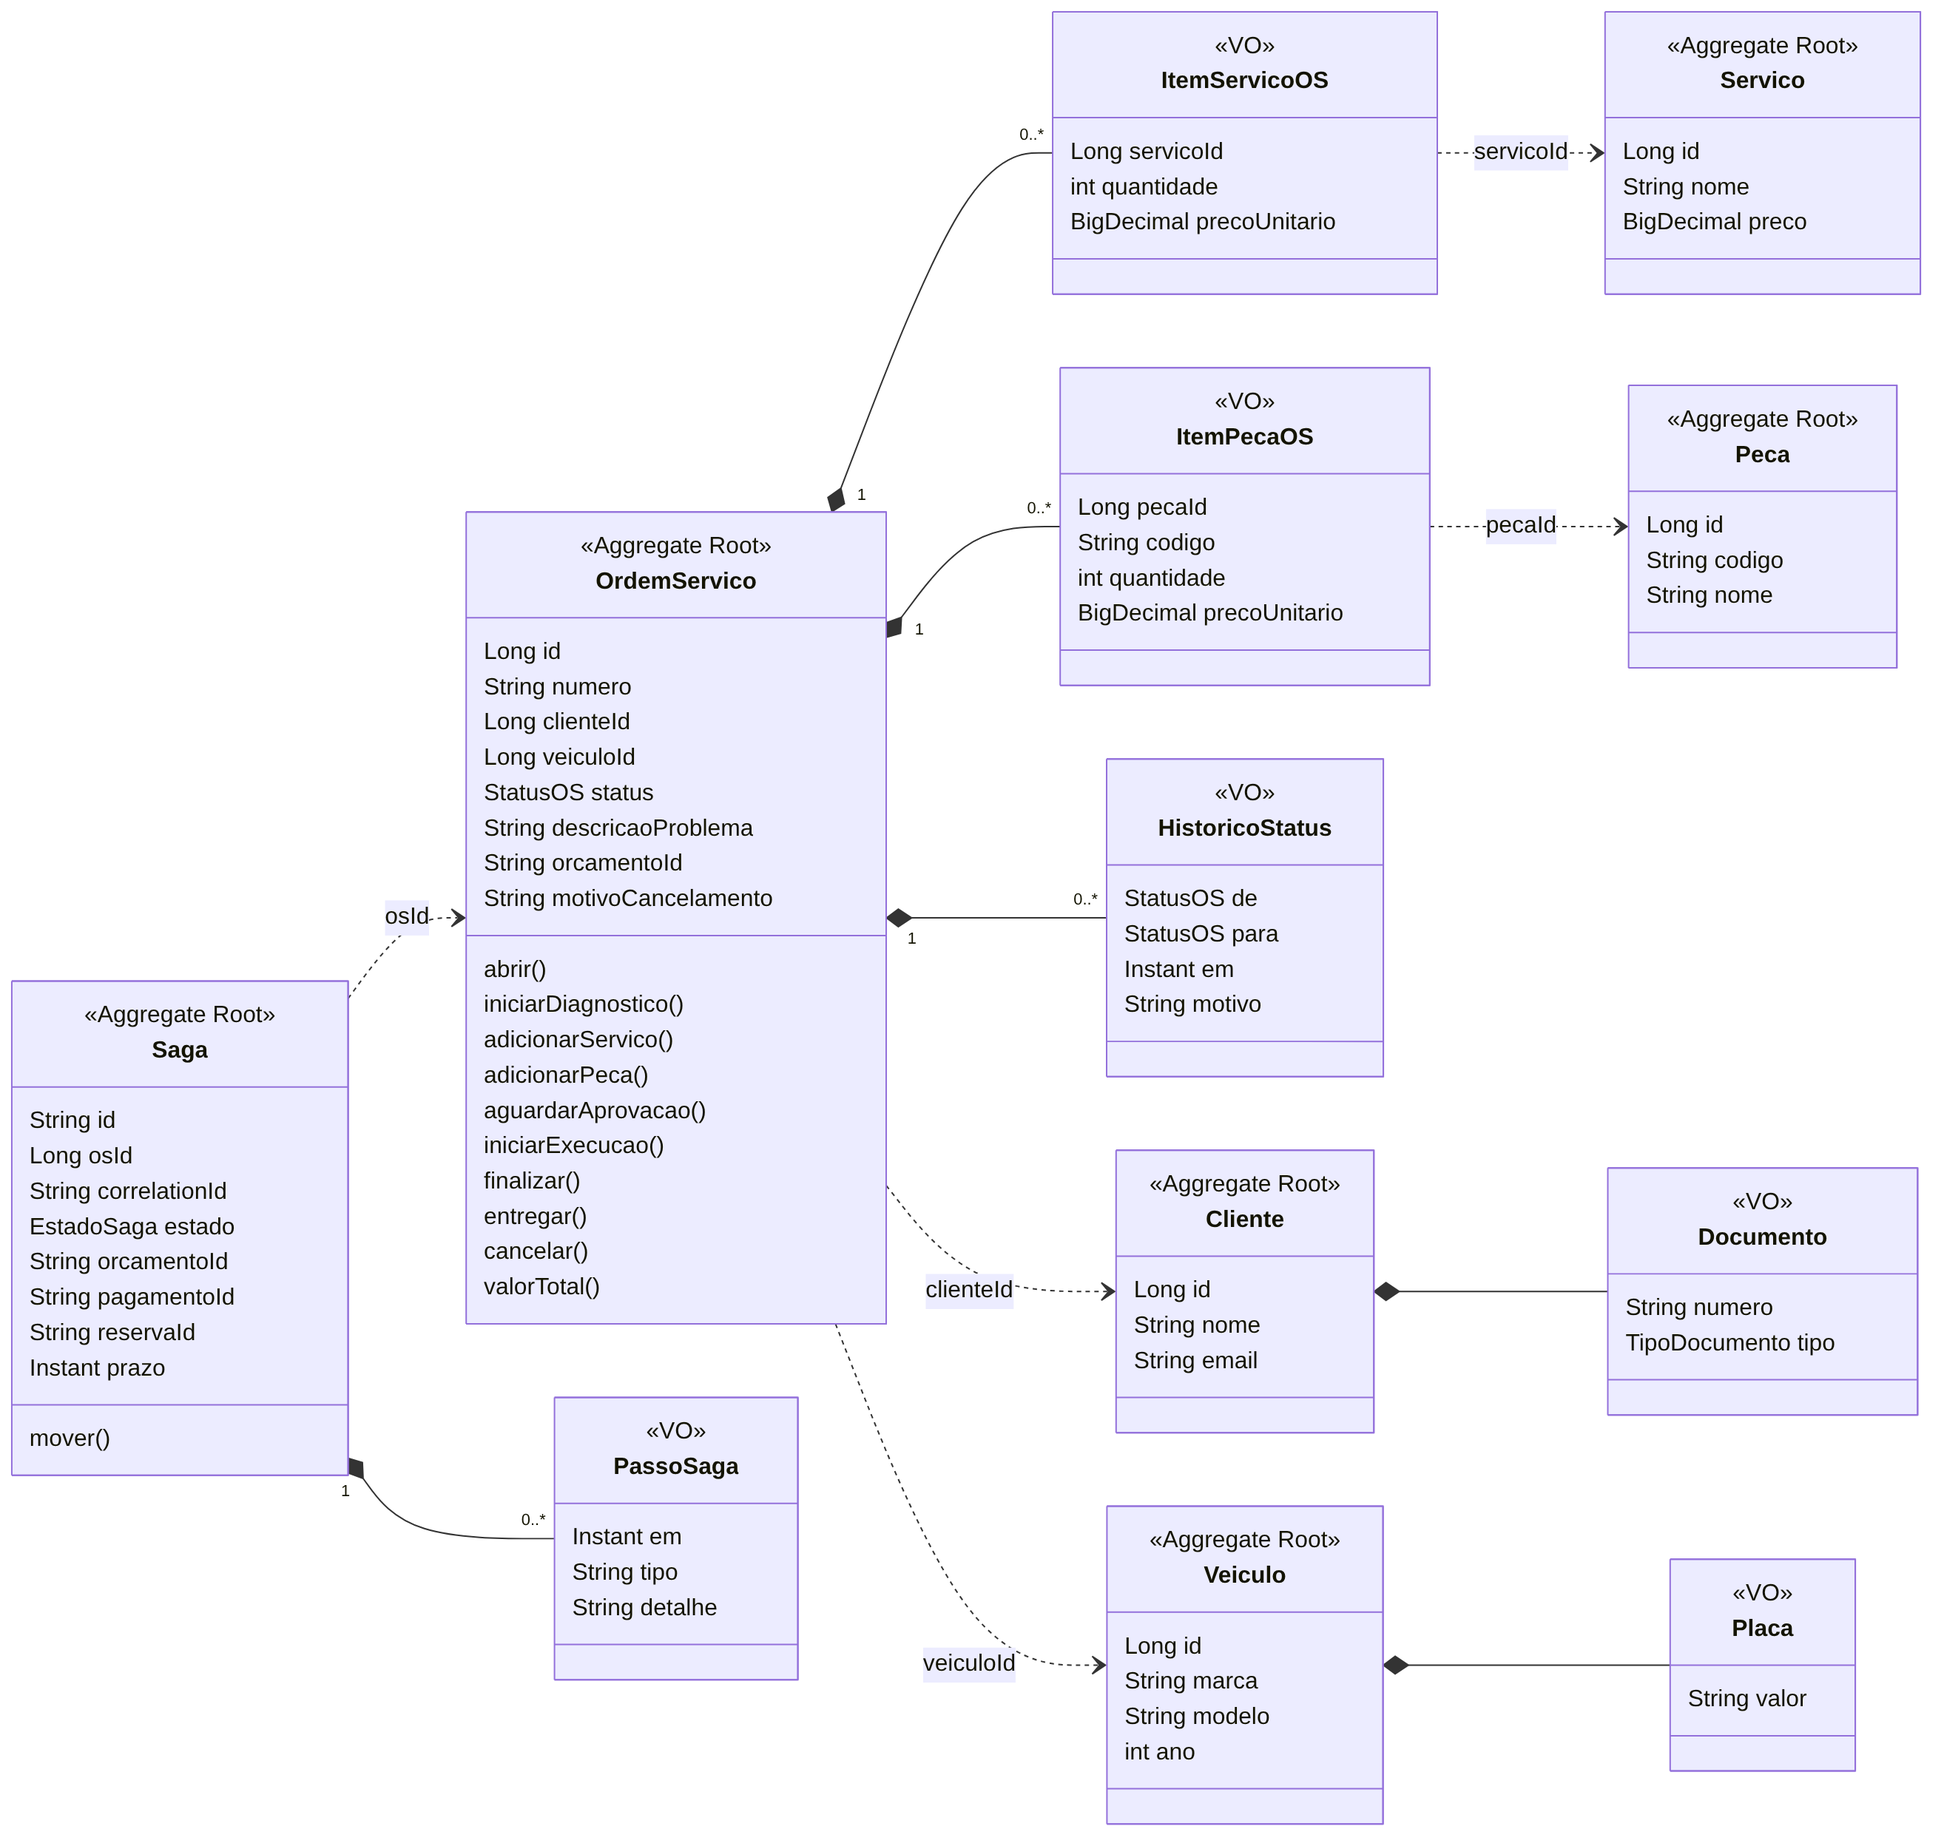
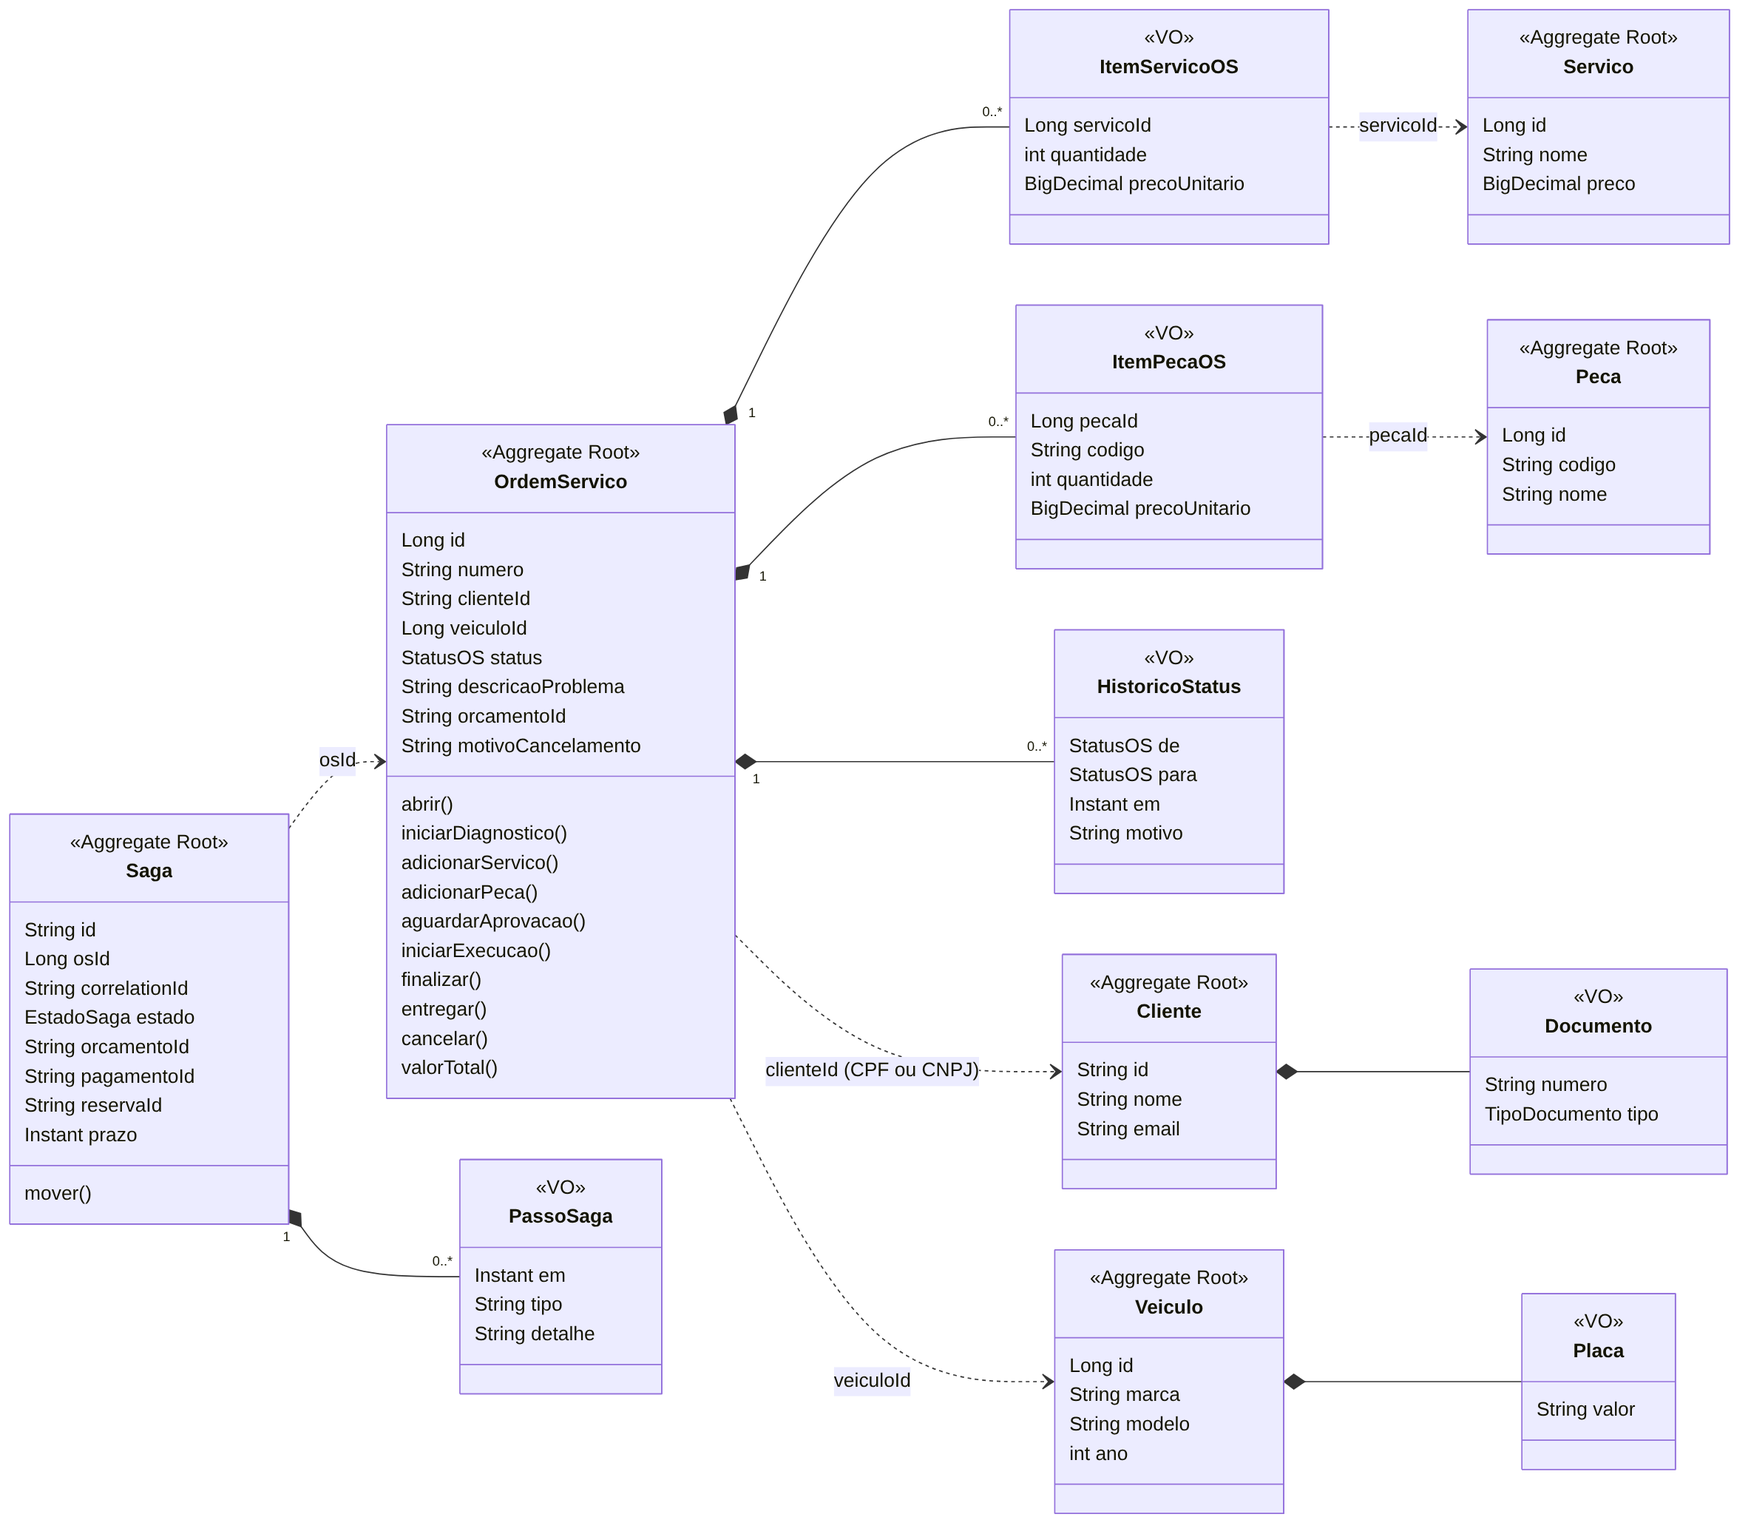
feat: CPF/CNPJ passa a ser o identificador do cliente
Documento como chave primaria (OS), clienteId texto nas mensagens, no Billing e no token da Lambda.
Inclui migrations, testes e documentacao atualizados.

Claude-Session: https://claude.ai/code/session_01RBiNqwT66apjE6pVwV7nbT

diff --git a/src/test/java/br/com/oficina/billing/application/BillingServiceTest.java b/src/test/java/br/com/oficina/billing/application/BillingServiceTest.java
@@ -67,7 +67,7 @@ class BillingServiceTest {
     }
 
     private void criar() {
-        service.processar(novaMensagem(), new CriarOrcamento(7L, "ana@x.com", itens(), TOTAL));
+        service.processar(novaMensagem(), new CriarOrcamento("52998224725", "ana@x.com", itens(), TOTAL));
     }
 
     private void cobrar(String orcamentoId, String metodo) {
@@ -112,7 +112,7 @@ class BillingServiceTest {
     @Test
     void mensagemRepetidaComOMesmoMessageIdEhIgnorada() {
         ContextoMensagem ctx = novaMensagem();
-        CriarOrcamento cmd = new CriarOrcamento(7L, "ana@x.com", itens(), TOTAL);
+        CriarOrcamento cmd = new CriarOrcamento("52998224725", "ana@x.com", itens(), TOTAL);
 
         service.processar(ctx, cmd);
         service.processar(ctx, cmd);
@@ -138,7 +138,7 @@ class BillingServiceTest {
         List<ItemOrcamento> outros = List.of(
                 new ItemOrcamento(TipoItem.SERVICO, "SRV-2", "Balanceamento", 1, new BigDecimal("50.00")));
 
-        service.processar(novaMensagem(), new CriarOrcamento(7L, "ana@x.com", outros, new BigDecimal("50.00")));
+        service.processar(novaMensagem(), new CriarOrcamento("52998224725", "ana@x.com", outros, new BigDecimal("50.00")));
 
         assertThat(orcamentos.dados).hasSize(2);
         assertThat(orcamentos.dados.get("id-1").getStatus()).isEqualTo(StatusOrcamento.CANCELADO);
@@ -148,7 +148,7 @@ class BillingServiceTest {
 
     @Test
     void valorTotalDivergenteResultaEmFalha() {
-        service.processar(novaMensagem(), new CriarOrcamento(7L, null, itens(), new BigDecimal("999.00")));
+        service.processar(novaMensagem(), new CriarOrcamento("52998224725", null, itens(), new BigDecimal("999.00")));
 
         assertThat(orcamentos.dados).isEmpty();
         assertThat(eventos.tipos()).containsExactly("ORCAMENTO_FALHOU");
@@ -157,8 +157,8 @@ class BillingServiceTest {
 
     @Test
     void semItensResultaEmFalha() {
-        service.processar(novaMensagem(), new CriarOrcamento(7L, null, List.of(), BigDecimal.ZERO));
-        service.processar(novaMensagem(), new CriarOrcamento(7L, null, null, null));
+        service.processar(novaMensagem(), new CriarOrcamento("52998224725", null, List.of(), BigDecimal.ZERO));
+        service.processar(novaMensagem(), new CriarOrcamento("52998224725", null, null, null));
 
         assertThat(eventos.tipos()).containsExactly("ORCAMENTO_FALHOU", "ORCAMENTO_FALHOU");
         assertThat(orcamentos.dados).isEmpty();
@@ -166,7 +166,7 @@ class BillingServiceTest {
 
     @Test
     void osSemIdResultaEmFalha() {
-        service.processar(new ContextoMensagem("m", "s", null, "c"), new CriarOrcamento(7L, null, itens(), TOTAL));
+        service.processar(new ContextoMensagem("m", "s", null, "c"), new CriarOrcamento("52998224725", null, itens(), TOTAL));
         assertThat(eventos.tipos()).containsExactly("ORCAMENTO_FALHOU");
     }
 

diff --git a/src/main/java/br/com/oficina/billing/domain/model/Orcamento.java b/src/main/java/br/com/oficina/billing/domain/model/Orcamento.java
@@ -17,7 +17,7 @@ public class Orcamento {
 
     private final String id;
     private final Long osId;
-    private final Long clienteId;
+    private final String clienteId;
     private final String emailCliente;
     private final List<ItemOrcamento> itens;
     private final BigDecimal valorTotal;
@@ -26,7 +26,7 @@ public class Orcamento {
     private final Instant criadoEm;
     private Instant atualizadoEm;
 
-    private Orcamento(String id, Long osId, Long clienteId, String emailCliente, List<ItemOrcamento> itens,
+    private Orcamento(String id, Long osId, String clienteId, String emailCliente, List<ItemOrcamento> itens,
                       StatusOrcamento status, String motivoCancelamento, Instant criadoEm, Instant atualizadoEm) {
         this.id = id;
         this.osId = osId;
@@ -41,7 +41,7 @@ public class Orcamento {
         this.atualizadoEm = atualizadoEm;
     }
 
-    public static Orcamento criar(String id, Long osId, Long clienteId, String emailCliente,
+    public static Orcamento criar(String id, Long osId, String clienteId, String emailCliente,
                                   List<ItemOrcamento> itens, Instant agora) {
         if (id == null || id.isBlank()) {
             throw new RegraDeNegocioException("Id do orçamento é obrigatório");
@@ -56,7 +56,7 @@ public class Orcamento {
     }
 
     /** Reconstrói um orçamento já gravado (usado pela persistência). */
-    public static Orcamento reconstituir(String id, Long osId, Long clienteId, String emailCliente,
+    public static Orcamento reconstituir(String id, Long osId, String clienteId, String emailCliente,
                                          List<ItemOrcamento> itens, StatusOrcamento status,
                                          String motivoCancelamento, Instant criadoEm, Instant atualizadoEm) {
         return new Orcamento(id, osId, clienteId, emailCliente, itens, status, motivoCancelamento,
@@ -116,7 +116,7 @@ public class Orcamento {
 
     public String getId() { return id; }
     public Long getOsId() { return osId; }
-    public Long getClienteId() { return clienteId; }
+    public String getClienteId() { return clienteId; }
     public String getEmailCliente() { return emailCliente; }
     public List<ItemOrcamento> getItens() { return Collections.unmodifiableList(itens); }
     public BigDecimal getValorTotal() { return valorTotal; }

diff --git a/src/test/java/br/com/oficina/billing/domain/OrcamentoTest.java b/src/test/java/br/com/oficina/billing/domain/OrcamentoTest.java
@@ -30,7 +30,7 @@ class OrcamentoTest {
     }
 
     private static Orcamento novo() {
-        return Orcamento.criar("orc-1", 42L, 7L, "ana@x.com", List.of(servico(), peca()), T0);
+        return Orcamento.criar("orc-1", 42L, "52998224725", "ana@x.com", List.of(servico(), peca()), T0);
     }
 
     // ------------------------------------------------------------ item
@@ -72,10 +72,10 @@ class OrcamentoTest {
     @Test
     void naoCriaSemIdOsOuItens() {
         List<ItemOrcamento> itens = List.of(servico());
-        assertThatThrownBy(() -> Orcamento.criar(" ", 1L, 1L, null, itens, T0)).isInstanceOf(RegraDeNegocioException.class);
-        assertThatThrownBy(() -> Orcamento.criar("o", null, 1L, null, itens, T0)).isInstanceOf(RegraDeNegocioException.class);
-        assertThatThrownBy(() -> Orcamento.criar("o", 1L, 1L, null, List.of(), T0)).isInstanceOf(RegraDeNegocioException.class);
-        assertThatThrownBy(() -> Orcamento.criar("o", 1L, 1L, null, null, T0)).isInstanceOf(RegraDeNegocioException.class);
+        assertThatThrownBy(() -> Orcamento.criar(" ", 1L, "52998224725", null, itens, T0)).isInstanceOf(RegraDeNegocioException.class);
+        assertThatThrownBy(() -> Orcamento.criar("o", null, "52998224725", null, itens, T0)).isInstanceOf(RegraDeNegocioException.class);
+        assertThatThrownBy(() -> Orcamento.criar("o", 1L, "52998224725", null, List.of(), T0)).isInstanceOf(RegraDeNegocioException.class);
+        assertThatThrownBy(() -> Orcamento.criar("o", 1L, "52998224725", null, null, T0)).isInstanceOf(RegraDeNegocioException.class);
     }
 
     @Test
@@ -132,11 +132,11 @@ class OrcamentoTest {
 
     @Test
     void reconstituirPreservaOEstado() {
-        Orcamento o = Orcamento.reconstituir("orc-9", 5L, 1L, "a@x.com", List.of(servico()),
+        Orcamento o = Orcamento.reconstituir("orc-9", 5L, "52998224725", "a@x.com", List.of(servico()),
                 StatusOrcamento.CANCELADO, "motivo", T0, T1);
         assertThat(o.getStatus()).isEqualTo(StatusOrcamento.CANCELADO);
         assertThat(o.getValorTotal()).isEqualTo(new BigDecimal("90.00"));
-        assertThat(o.getClienteId()).isEqualTo(1L);
+        assertThat(o.getClienteId()).isEqualTo("52998224725");
         assertThat(o.getEmailCliente()).isEqualTo("a@x.com");
         assertThat(o.getAtualizadoEm()).isEqualTo(T1);
     }

diff --git a/src/test/java/br/com/oficina/billing/infrastructure/persistence/FluxoComBancoTest.java b/src/test/java/br/com/oficina/billing/infrastructure/persistence/FluxoComBancoTest.java
@@ -46,7 +46,7 @@ class FluxoComBancoTest extends PostgresTestBase {
     }
 
     private String criar(long osId) throws Exception {
-        processador.processar(ctx(osId), new CriarOrcamento(7L, "ana@x.com", itens(), new BigDecimal("200.00")));
+        processador.processar(ctx(osId), new CriarOrcamento("52998224725", "ana@x.com", itens(), new BigDecimal("200.00")));
         List<OutboxEventoEntity> eventos = outbox.findByOsIdOrderByIdAsc(osId);
         OutboxEventoEntity criado = eventos.get(eventos.size() - 1);
         assertThat(criado.getTipo()).isEqualTo("ORCAMENTO_CRIADO");
@@ -76,7 +76,7 @@ class FluxoComBancoTest extends PostgresTestBase {
     void mensagemRepetidaNaoGeraNovoEvento() throws Exception {
         long os = OS.incrementAndGet();
         ContextoMensagem mesma = ctx(os);
-        CriarOrcamento cmd = new CriarOrcamento(7L, "ana@x.com", itens(), new BigDecimal("200.00"));
+        CriarOrcamento cmd = new CriarOrcamento("52998224725", "ana@x.com", itens(), new BigDecimal("200.00"));
 
         processador.processar(mesma, cmd);
         processador.processar(mesma, cmd);

diff --git a/src/test/java/br/com/oficina/billing/infrastructure/mensageria/ComandoMapperTest.java b/src/test/java/br/com/oficina/billing/infrastructure/mensageria/ComandoMapperTest.java
@@ -28,7 +28,7 @@ class ComandoMapperTest {
     @Test
     void mapeiaCriarOrcamentoComItensEContexto() throws Exception {
         var r = mapper.mapear(env("CRIAR_ORCAMENTO", """
-                {"clienteId":7,"emailCliente":"ana@x.com","valorTotal":131.00,"itens":[
+                {"clienteId":"52998224725","emailCliente":"ana@x.com","valorTotal":131.00,"itens":[
                   {"tipo":"SERVICO","codigo":"S1","descricao":"Troca de oleo","quantidade":1,"precoUnitario":80},
                   {"tipo":"peca","codigo":"P1","descricao":"Filtro","quantidade":2,"precoUnitario":"25.50"}]}"""));
 
@@ -37,7 +37,7 @@ class ComandoMapperTest {
         assertThat(r.contexto().osId()).isEqualTo(42L);
         assertThat(r.contexto().correlationId()).isEqualTo("corr-1");
         var c = (CriarOrcamento) r.comando();
-        assertThat(c.clienteId()).isEqualTo(7L);
+        assertThat(c.clienteId()).isEqualTo("52998224725");
         assertThat(c.emailCliente()).isEqualTo("ana@x.com");
         assertThat(c.valorTotal()).isEqualByComparingTo("131.00");
         assertThat(c.itens()).hasSize(2);

diff --git a/src/main/java/br/com/oficina/billing/infrastructure/mensageria/ComandoMapper.java b/src/main/java/br/com/oficina/billing/infrastructure/mensageria/ComandoMapper.java
@@ -52,7 +52,7 @@ public class ComandoMapper {
                             inteiro(i, "quantidade"), decimal(i, "precoUnitario")));
                 }
             }
-            Long clienteId = p != null && p.hasNonNull("clienteId") ? p.get("clienteId").asLong() : null;
+            String clienteId = p != null && p.hasNonNull("clienteId") ? p.get("clienteId").asText() : null;
             return new CriarOrcamento(clienteId, texto(p, "emailCliente"), itens, decimal(p, "valorTotal"));
         } catch (RegraDeNegocioException | NumberFormatException e) {
             // Dado inválido nunca passa na próxima tentativa: o Billing responde ORCAMENTO_FALHOU

diff --git a/src/test/java/br/com/oficina/billing/infrastructure/mensageria/OutboxRelayTest.java b/src/test/java/br/com/oficina/billing/infrastructure/mensageria/OutboxRelayTest.java
@@ -57,7 +57,7 @@ class OutboxRelayTest extends PostgresTestBase {
     private long novoPedido() {
         long os = OS.incrementAndGet();
         processador.processar(new ContextoMensagem(UUID.randomUUID().toString(), "saga-" + os, os, "corr-" + os),
-                new CriarOrcamento(7L, "ana@x.com",
+                new CriarOrcamento("52998224725", "ana@x.com",
                         List.of(new ItemOrcamento(TipoItem.SERVICO, "S1", "Revisão", 1, new BigDecimal("200.00"))),
                         new BigDecimal("200.00")));
         return os;

diff --git a/src/main/java/br/com/oficina/billing/infrastructure/web/dto/OrcamentoResponse.java b/src/main/java/br/com/oficina/billing/infrastructure/web/dto/OrcamentoResponse.java
@@ -7,7 +7,7 @@ import java.math.BigDecimal;
 import java.time.Instant;
 import java.util.List;
 
-public record OrcamentoResponse(String id, Long osId, Long clienteId, String emailCliente, StatusOrcamento status,
+public record OrcamentoResponse(String id, Long osId, String clienteId, String emailCliente, StatusOrcamento status,
                                 BigDecimal valorTotal, String motivoCancelamento, List<ItemResponse> itens,
                                 Instant criadoEm, Instant atualizadoEm) {
 

diff --git a/src/test/java/br/com/oficina/billing/application/ConsultaOrcamentosServiceTest.java b/src/test/java/br/com/oficina/billing/application/ConsultaOrcamentosServiceTest.java
@@ -32,7 +32,7 @@ class ConsultaOrcamentosServiceTest {
     }
 
     private Orcamento orcamento(String id, long osId, Instant criadoEm) {
-        Orcamento o = Orcamento.criar(id, osId, 1L, null,
+        Orcamento o = Orcamento.criar(id, osId, "52998224725", null,
                 List.of(new ItemOrcamento(TipoItem.SERVICO, "S", "Serviço", 1, BigDecimal.TEN)), criadoEm);
         orcamentos.salvar(o);
         return o;

diff --git a/src/main/java/br/com/oficina/billing/application/port/in/ComandoBilling.java b/src/main/java/br/com/oficina/billing/application/port/in/ComandoBilling.java
@@ -8,7 +8,7 @@ import java.util.List;
 /** Comandos que o OS Service envia ao Billing (docs/eventos.md). */
 public sealed interface ComandoBilling {
 
-    record CriarOrcamento(Long clienteId, String emailCliente, List<ItemOrcamento> itens,
+    record CriarOrcamento(String clienteId, String emailCliente, List<ItemOrcamento> itens,
                           BigDecimal valorTotal) implements ComandoBilling {
     }
 

diff --git a/src/test/java/br/com/oficina/billing/infrastructure/web/OrcamentoControllerTest.java b/src/test/java/br/com/oficina/billing/infrastructure/web/OrcamentoControllerTest.java
@@ -38,7 +38,7 @@ class OrcamentoControllerTest {
     @MockitoBean ConsultaOrcamentos consulta;
 
     private static Orcamento orcamento() {
-        return Orcamento.criar("o-1", 42L, 7L, "ana@x.com",
+        return Orcamento.criar("o-1", 42L, "52998224725", "ana@x.com",
                 List.of(new ItemOrcamento(TipoItem.SERVICO, "S1", "Revisão", 2, new BigDecimal("100"))), T0);
     }
 

diff --git a/src/test/java/br/com/oficina/billing/infrastructure/persistence/RepositoriosPersistenciaTest.java b/src/test/java/br/com/oficina/billing/infrastructure/persistence/RepositoriosPersistenciaTest.java
@@ -45,7 +45,7 @@ class RepositoriosPersistenciaTest extends PostgresTestBase {
     }
 
     private static Orcamento novo(long osId) {
-        return Orcamento.criar(UUID.randomUUID().toString(), osId, 7L, "ana@x.com", itens(), T0);
+        return Orcamento.criar(UUID.randomUUID().toString(), osId, "52998224725", "ana@x.com", itens(), T0);
     }
 
     @Test
